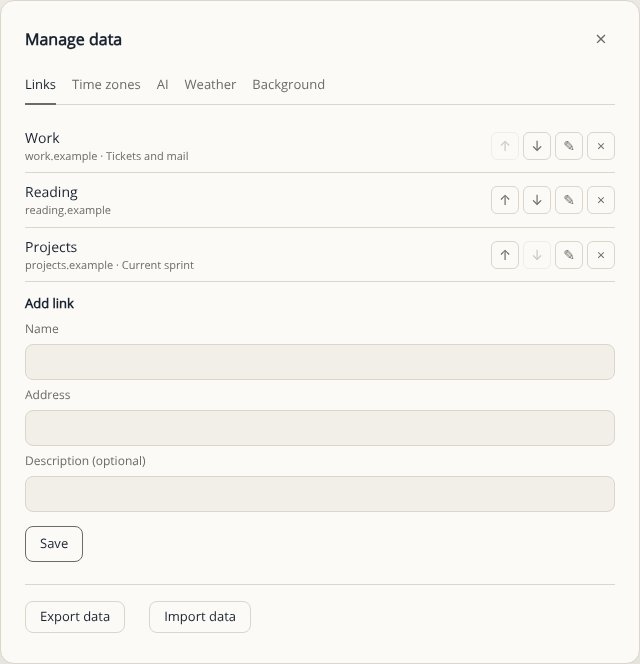
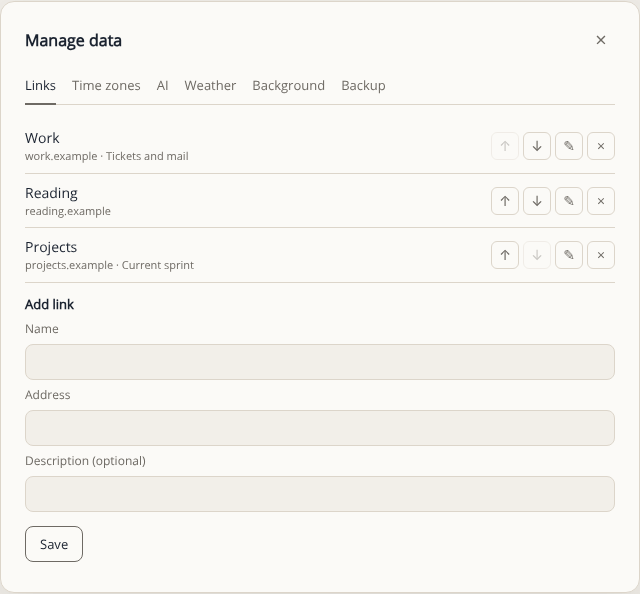
Backup tab in Manage data, and updated screenshots (1.3.13)
Backup tab in Manage data, and updated screenshots (1.3.13)

diff --git a/script.js b/script.js
@@ -1,6 +1,6 @@
 const root = document.documentElement
 // The last number goes up with every change; a release gets the next version number, such as 1.4. The date is DD-MM-YYYY.
-const APP_VERSION = '1.3.12'
+const APP_VERSION = '1.3.13'
 const APP_UPDATED = '12-10-2026'
 const searchForm = document.getElementById('searchform')
 const searchBox = document.getElementById('search')
@@ -328,20 +328,20 @@ const sectionText = {
   zh: { secWeather: '天气', secLook: '显示', secPrivacy: '隐私', placeTime: '当地时间' }
 }
 const aiText = {
-  en: { limitFull: '{n} of {n} · full', aiSec: 'AI shortcuts', aiOn: 'On', aiName: 'Name', aiUrl: 'Address', aiEdit: 'Edit', aiAddTitle: 'Add shortcut', aiEditTitle: 'Edit shortcut', aiSave: 'Save', aiCancel: 'Cancel', aiUp: 'Move up', aiDown: 'Move down', aiRemove: 'Remove', versionText: 'Version {v}, updated {d}', secBackground: 'Background', resetIntro: 'Reset settings only sets your settings back to the defaults; your data stays. Delete my data removes your own links, AI shortcuts, time zones, city and extra places. This cannot be undone, so make a backup first in Manage data.', resetSec: 'Reset', dateOnLbl: 'Show the date', dateSec: 'Date', dateShow: 'Show', dateLong: 'Long', dateShort: 'Short', dateOrderLbl: 'Order', dateAuto: 'Automatic', dateDmy: 'Day-month-year', dateMdy: 'Month-day-year', dateYmd: 'Year-month-day', timeSec: 'Time format', time24: '24 hours', time12: '12 hours (AM/PM)', timeFull: 'Full, with seconds', searchSec: 'Search', searchNewTab: 'Open search in a new tab', aiNewTab: 'Open AI links in a new tab', aiDuplicate: 'Already in the list.', aiPick: 'Pick services', aiInvalid: 'Enter a valid https address' },
-  nl: { limitFull: '{n} van {n} · vol', aiSec: 'AI-snelkoppelingen', aiOn: 'Aan', aiName: 'Naam', aiUrl: 'Adres', aiEdit: 'Bewerken', aiAddTitle: 'Snelkoppeling toevoegen', aiEditTitle: 'Snelkoppeling bewerken', aiSave: 'Opslaan', aiCancel: 'Annuleren', aiUp: 'Omhoog', aiDown: 'Omlaag', aiRemove: 'Verwijderen', versionText: 'Versie {v}, bijgewerkt {d}', secBackground: 'Achtergrond', resetIntro: 'Instellingen resetten zet alleen je instellingen terug naar de standaard; je gegevens blijven staan. Mijn gegevens wissen verwijdert je eigen links, AI-snelkoppelingen, tijdzones, stad en extra plaatsen. Dat kan niet ongedaan worden, dus maak eerst een backup in Data beheren.', resetSec: 'Resetten', dateOnLbl: 'Datum tonen', dateSec: 'Datum', dateShow: 'Weergave', dateLong: 'Lang', dateShort: 'Kort', dateOrderLbl: 'Volgorde', dateAuto: 'Automatisch', dateDmy: 'Dag-maand-jaar', dateMdy: 'Maand-dag-jaar', dateYmd: 'Jaar-maand-dag', timeSec: 'Tijdnotatie', time24: '24 uur', time12: '12 uur (AM/PM)', timeFull: 'Volledig, met seconden', searchSec: 'Zoeken', searchNewTab: 'Zoeken openen in een nieuw tabblad', aiNewTab: 'AI-links openen in een nieuw tabblad', aiDuplicate: 'Staat al in de lijst.', aiPick: 'Kies diensten', aiInvalid: 'Vul een geldig https-adres in' },
-  de: { limitFull: '{n} von {n} · voll', aiSec: 'KI-Verknüpfungen', aiOn: 'An', aiName: 'Name', aiUrl: 'Adresse', aiEdit: 'Bearbeiten', aiAddTitle: 'Verknüpfung hinzufügen', aiEditTitle: 'Verknüpfung bearbeiten', aiSave: 'Speichern', aiCancel: 'Abbrechen', aiUp: 'Nach oben', aiDown: 'Nach unten', aiRemove: 'Entfernen', versionText: 'Version {v}, aktualisiert {d}', secBackground: 'Hintergrund', resetIntro: 'Einstellungen zurücksetzen stellt nur die Standardwerte wieder her; deine Daten bleiben. Meine Daten löschen entfernt deine eigenen Links, KI-Verknüpfungen, Zeitzonen, Stadt und zusätzlichen Orte. Das lässt sich nicht rückgängig machen, also erstelle zuerst ein Backup in Daten verwalten.', resetSec: 'Zurücksetzen', dateOnLbl: 'Datum anzeigen', dateSec: 'Datum', dateShow: 'Anzeige', dateLong: 'Lang', dateShort: 'Kurz', dateOrderLbl: 'Reihenfolge', dateAuto: 'Automatisch', dateDmy: 'Tag-Monat-Jahr', dateMdy: 'Monat-Tag-Jahr', dateYmd: 'Jahr-Monat-Tag', timeSec: 'Zeitformat', time24: '24 Stunden', time12: '12 Stunden (AM/PM)', timeFull: 'Vollständig, mit Sekunden', searchSec: 'Suche', searchNewTab: 'Suche in einem neuen Tab öffnen', aiNewTab: 'KI-Links in einem neuen Tab öffnen', aiDuplicate: 'Ist schon in der Liste.', aiPick: 'Dienste wählen', aiInvalid: 'Gib eine gültige https-Adresse ein' },
-  fr: { limitFull: '{n} sur {n} · complet', aiSec: 'Raccourcis IA', aiOn: 'Activé', aiName: 'Nom', aiUrl: 'Adresse', aiEdit: 'Modifier', aiAddTitle: 'Ajouter un raccourci', aiEditTitle: 'Modifier le raccourci', aiSave: 'Enregistrer', aiCancel: 'Annuler', aiUp: 'Monter', aiDown: 'Descendre', aiRemove: 'Supprimer', versionText: 'Version {v}, mise à jour {d}', secBackground: 'Arrière-plan', resetIntro: 'Réinitialiser les réglages remet seulement les réglages par défaut ; vos données restent. Effacer mes données supprime vos liens, raccourcis IA, fuseaux, ville et lieux supplémentaires. Action irréversible : faites d’abord une sauvegarde dans Gérer les données.', resetSec: 'Réinitialiser', dateOnLbl: 'Afficher la date', dateSec: 'Date', dateShow: 'Affichage', dateLong: 'Long', dateShort: 'Court', dateOrderLbl: 'Ordre', dateAuto: 'Automatique', dateDmy: 'Jour-mois-année', dateMdy: 'Mois-jour-année', dateYmd: 'Année-mois-jour', timeSec: 'Format de l’heure', time24: '24 heures', time12: '12 heures (AM/PM)', timeFull: 'Complet, avec secondes', searchSec: 'Recherche', searchNewTab: 'Ouvrir la recherche dans un nouvel onglet', aiNewTab: 'Ouvrir les liens IA dans un nouvel onglet', aiDuplicate: 'Déjà dans la liste.', aiPick: 'Choisir les services', aiInvalid: 'Saisissez une adresse https valide' },
-  es: { limitFull: '{n} de {n} · completo', aiSec: 'Accesos de IA', aiOn: 'Activado', aiName: 'Nombre', aiUrl: 'Dirección', aiEdit: 'Editar', aiAddTitle: 'Añadir acceso', aiEditTitle: 'Editar acceso', aiSave: 'Guardar', aiCancel: 'Cancelar', aiUp: 'Subir', aiDown: 'Bajar', aiRemove: 'Quitar', versionText: 'Versión {v}, actualizada {d}', secBackground: 'Fondo', resetIntro: 'Restablecer ajustes solo devuelve los valores predeterminados; tus datos se mantienen. Borrar mis datos elimina tus enlaces propios, accesos de IA, zonas horarias, ciudad y lugares adicionales. No se puede deshacer, así que haz antes una copia en Gestionar datos.', resetSec: 'Restablecer', dateOnLbl: 'Mostrar la fecha', dateSec: 'Fecha', dateShow: 'Mostrar', dateLong: 'Larga', dateShort: 'Corta', dateOrderLbl: 'Orden', dateAuto: 'Automático', dateDmy: 'Día-mes-año', dateMdy: 'Mes-día-año', dateYmd: 'Año-mes-día', timeSec: 'Formato de hora', time24: '24 horas', time12: '12 horas (AM/PM)', timeFull: 'Completo, con segundos', searchSec: 'Búsqueda', searchNewTab: 'Abrir la búsqueda en una pestaña nueva', aiNewTab: 'Abrir los accesos de IA en una pestaña nueva', aiDuplicate: 'Ya está en la lista.', aiPick: 'Elige servicios', aiInvalid: 'Escribe una dirección https válida' },
-  zh: { limitFull: '{n}/{n} · 已满', aiSec: 'AI 快捷方式', aiOn: '开启', aiName: '名称', aiUrl: '地址', aiEdit: '编辑', aiAddTitle: '添加快捷方式', aiEditTitle: '编辑快捷方式', aiSave: '保存', aiCancel: '取消', aiUp: '上移', aiDown: '下移', aiRemove: '移除', versionText: '版本 {v}，更新于 {d}', secBackground: '背景', resetIntro: '重置设置只会恢复默认值，你的数据会保留。删除我的数据会移除你自己的链接、AI 快捷方式、时区、城市和额外地点。此操作无法撤销，请先在管理数据中备份。', resetSec: '重置', dateOnLbl: '显示日期', dateSec: '日期', dateShow: '显示', dateLong: '长格式', dateShort: '短格式', dateOrderLbl: '顺序', dateAuto: '自动', dateDmy: '日-月-年', dateMdy: '月-日-年', dateYmd: '年-月-日', timeSec: '时间格式', time24: '24 小时制', time12: '12 小时制 (AM/PM)', timeFull: '完整，含秒', searchSec: '搜索', searchNewTab: '在新标签页中打开搜索', aiNewTab: '在新标签页中打开 AI 快捷方式', aiDuplicate: '已在列表中。', aiPick: '选择服务', aiInvalid: '请输入有效的 https 地址' }
+  en: { limitFull: '{n} of {n} · full', aiSec: 'AI shortcuts', aiOn: 'On', aiName: 'Name', aiUrl: 'Address', aiEdit: 'Edit', aiAddTitle: 'Add shortcut', aiEditTitle: 'Edit shortcut', aiSave: 'Save', aiCancel: 'Cancel', aiUp: 'Move up', aiDown: 'Move down', aiRemove: 'Remove', versionText: 'Version {v}, updated {d}', secBackground: 'Background', resetIntro: 'Reset settings only sets your settings back to the defaults; your data stays. Delete my data removes your own links, AI shortcuts, time zones, city and extra places. This cannot be undone, so make a backup first on the Backup tab in Manage data.', resetSec: 'Reset', dateOnLbl: 'Show the date', dateSec: 'Date', dateShow: 'Show', dateLong: 'Long', dateShort: 'Short', dateOrderLbl: 'Order', dateAuto: 'Automatic', dateDmy: 'Day-month-year', dateMdy: 'Month-day-year', dateYmd: 'Year-month-day', timeSec: 'Time format', time24: '24 hours', time12: '12 hours (AM/PM)', timeFull: 'Full, with seconds', searchSec: 'Search', searchNewTab: 'Open search in a new tab', aiNewTab: 'Open AI links in a new tab', aiDuplicate: 'Already in the list.', aiPick: 'Pick services', aiInvalid: 'Enter a valid https address' },
+  nl: { limitFull: '{n} van {n} · vol', aiSec: 'AI-snelkoppelingen', aiOn: 'Aan', aiName: 'Naam', aiUrl: 'Adres', aiEdit: 'Bewerken', aiAddTitle: 'Snelkoppeling toevoegen', aiEditTitle: 'Snelkoppeling bewerken', aiSave: 'Opslaan', aiCancel: 'Annuleren', aiUp: 'Omhoog', aiDown: 'Omlaag', aiRemove: 'Verwijderen', versionText: 'Versie {v}, bijgewerkt {d}', secBackground: 'Achtergrond', resetIntro: 'Instellingen resetten zet alleen je instellingen terug naar de standaard; je gegevens blijven staan. Mijn gegevens wissen verwijdert je eigen links, AI-snelkoppelingen, tijdzones, stad en extra plaatsen. Dat kan niet ongedaan worden, dus maak eerst een backup op het tabblad Backup onder Data beheren.', resetSec: 'Resetten', dateOnLbl: 'Datum tonen', dateSec: 'Datum', dateShow: 'Weergave', dateLong: 'Lang', dateShort: 'Kort', dateOrderLbl: 'Volgorde', dateAuto: 'Automatisch', dateDmy: 'Dag-maand-jaar', dateMdy: 'Maand-dag-jaar', dateYmd: 'Jaar-maand-dag', timeSec: 'Tijdnotatie', time24: '24 uur', time12: '12 uur (AM/PM)', timeFull: 'Volledig, met seconden', searchSec: 'Zoeken', searchNewTab: 'Zoeken openen in een nieuw tabblad', aiNewTab: 'AI-links openen in een nieuw tabblad', aiDuplicate: 'Staat al in de lijst.', aiPick: 'Kies diensten', aiInvalid: 'Vul een geldig https-adres in' },
+  de: { limitFull: '{n} von {n} · voll', aiSec: 'KI-Verknüpfungen', aiOn: 'An', aiName: 'Name', aiUrl: 'Adresse', aiEdit: 'Bearbeiten', aiAddTitle: 'Verknüpfung hinzufügen', aiEditTitle: 'Verknüpfung bearbeiten', aiSave: 'Speichern', aiCancel: 'Abbrechen', aiUp: 'Nach oben', aiDown: 'Nach unten', aiRemove: 'Entfernen', versionText: 'Version {v}, aktualisiert {d}', secBackground: 'Hintergrund', resetIntro: 'Einstellungen zurücksetzen stellt nur die Standardwerte wieder her; deine Daten bleiben. Meine Daten löschen entfernt deine eigenen Links, KI-Verknüpfungen, Zeitzonen, Stadt und zusätzlichen Orte. Das lässt sich nicht rückgängig machen, also erstelle zuerst ein Backup im Reiter Backup unter Daten verwalten.', resetSec: 'Zurücksetzen', dateOnLbl: 'Datum anzeigen', dateSec: 'Datum', dateShow: 'Anzeige', dateLong: 'Lang', dateShort: 'Kurz', dateOrderLbl: 'Reihenfolge', dateAuto: 'Automatisch', dateDmy: 'Tag-Monat-Jahr', dateMdy: 'Monat-Tag-Jahr', dateYmd: 'Jahr-Monat-Tag', timeSec: 'Zeitformat', time24: '24 Stunden', time12: '12 Stunden (AM/PM)', timeFull: 'Vollständig, mit Sekunden', searchSec: 'Suche', searchNewTab: 'Suche in einem neuen Tab öffnen', aiNewTab: 'KI-Links in einem neuen Tab öffnen', aiDuplicate: 'Ist schon in der Liste.', aiPick: 'Dienste wählen', aiInvalid: 'Gib eine gültige https-Adresse ein' },
+  fr: { limitFull: '{n} sur {n} · complet', aiSec: 'Raccourcis IA', aiOn: 'Activé', aiName: 'Nom', aiUrl: 'Adresse', aiEdit: 'Modifier', aiAddTitle: 'Ajouter un raccourci', aiEditTitle: 'Modifier le raccourci', aiSave: 'Enregistrer', aiCancel: 'Annuler', aiUp: 'Monter', aiDown: 'Descendre', aiRemove: 'Supprimer', versionText: 'Version {v}, mise à jour {d}', secBackground: 'Arrière-plan', resetIntro: 'Réinitialiser les réglages remet seulement les réglages par défaut ; vos données restent. Effacer mes données supprime vos liens, raccourcis IA, fuseaux, ville et lieux supplémentaires. Action irréversible : faites d’abord une sauvegarde dans l’onglet Sauvegarde de Gérer les données.', resetSec: 'Réinitialiser', dateOnLbl: 'Afficher la date', dateSec: 'Date', dateShow: 'Affichage', dateLong: 'Long', dateShort: 'Court', dateOrderLbl: 'Ordre', dateAuto: 'Automatique', dateDmy: 'Jour-mois-année', dateMdy: 'Mois-jour-année', dateYmd: 'Année-mois-jour', timeSec: 'Format de l’heure', time24: '24 heures', time12: '12 heures (AM/PM)', timeFull: 'Complet, avec secondes', searchSec: 'Recherche', searchNewTab: 'Ouvrir la recherche dans un nouvel onglet', aiNewTab: 'Ouvrir les liens IA dans un nouvel onglet', aiDuplicate: 'Déjà dans la liste.', aiPick: 'Choisir les services', aiInvalid: 'Saisissez une adresse https valide' },
+  es: { limitFull: '{n} de {n} · completo', aiSec: 'Accesos de IA', aiOn: 'Activado', aiName: 'Nombre', aiUrl: 'Dirección', aiEdit: 'Editar', aiAddTitle: 'Añadir acceso', aiEditTitle: 'Editar acceso', aiSave: 'Guardar', aiCancel: 'Cancelar', aiUp: 'Subir', aiDown: 'Bajar', aiRemove: 'Quitar', versionText: 'Versión {v}, actualizada {d}', secBackground: 'Fondo', resetIntro: 'Restablecer ajustes solo devuelve los valores predeterminados; tus datos se mantienen. Borrar mis datos elimina tus enlaces propios, accesos de IA, zonas horarias, ciudad y lugares adicionales. No se puede deshacer, así que haz antes una copia en la pestaña Copia de Gestionar datos.', resetSec: 'Restablecer', dateOnLbl: 'Mostrar la fecha', dateSec: 'Fecha', dateShow: 'Mostrar', dateLong: 'Larga', dateShort: 'Corta', dateOrderLbl: 'Orden', dateAuto: 'Automático', dateDmy: 'Día-mes-año', dateMdy: 'Mes-día-año', dateYmd: 'Año-mes-día', timeSec: 'Formato de hora', time24: '24 horas', time12: '12 horas (AM/PM)', timeFull: 'Completo, con segundos', searchSec: 'Búsqueda', searchNewTab: 'Abrir la búsqueda en una pestaña nueva', aiNewTab: 'Abrir los accesos de IA en una pestaña nueva', aiDuplicate: 'Ya está en la lista.', aiPick: 'Elige servicios', aiInvalid: 'Escribe una dirección https válida' },
+  zh: { limitFull: '{n}/{n} · 已满', aiSec: 'AI 快捷方式', aiOn: '开启', aiName: '名称', aiUrl: '地址', aiEdit: '编辑', aiAddTitle: '添加快捷方式', aiEditTitle: '编辑快捷方式', aiSave: '保存', aiCancel: '取消', aiUp: '上移', aiDown: '下移', aiRemove: '移除', versionText: '版本 {v}，更新于 {d}', secBackground: '背景', resetIntro: '重置设置只会恢复默认值，你的数据会保留。删除我的数据会移除你自己的链接、AI 快捷方式、时区、城市和额外地点。此操作无法撤销，请先在管理数据的备份标签中备份。', resetSec: '重置', dateOnLbl: '显示日期', dateSec: '日期', dateShow: '显示', dateLong: '长格式', dateShort: '短格式', dateOrderLbl: '顺序', dateAuto: '自动', dateDmy: '日-月-年', dateMdy: '月-日-年', dateYmd: '年-月-日', timeSec: '时间格式', time24: '24 小时制', time12: '12 小时制 (AM/PM)', timeFull: '完整，含秒', searchSec: '搜索', searchNewTab: '在新标签页中打开搜索', aiNewTab: '在新标签页中打开 AI 快捷方式', aiDuplicate: '已在列表中。', aiPick: '选择服务', aiInvalid: '请输入有效的 https 地址' }
 }
 const manageText = {
-  en: { linkUp: 'Move up', linkDown: 'Move down', manageOpen: 'Manage data', tabLinks: 'Links', tabZones: 'Time zones', tabAi: 'AI', tabWeather: 'Weather', placeLabel: 'Add a city', placeAdd: 'Add', placeOwn: 'Your place', placeNone: 'No place yet', placeDuplicate: 'Already in the list', placeRemove: 'Remove' },
-  nl: { linkUp: 'Omhoog', linkDown: 'Omlaag', manageOpen: 'Data beheren', tabLinks: 'Links', tabZones: 'Tijdzones', tabAi: 'AI', tabWeather: 'Weer', placeLabel: 'Een stad toevoegen', placeAdd: 'Toevoegen', placeOwn: 'Je eigen plaats', placeNone: 'Nog geen plaats', placeDuplicate: 'Staat al in de lijst', placeRemove: 'Verwijderen' },
-  de: { linkUp: 'Nach oben', linkDown: 'Nach unten', manageOpen: 'Daten verwalten', tabLinks: 'Links', tabZones: 'Zeitzonen', tabAi: 'KI', tabWeather: 'Wetter', placeLabel: 'Eine Stadt hinzufügen', placeAdd: 'Hinzufügen', placeOwn: 'Dein Ort', placeNone: 'Noch kein Ort', placeDuplicate: 'Ist schon in der Liste', placeRemove: 'Entfernen' },
-  fr: { linkUp: 'Monter', linkDown: 'Descendre', manageOpen: 'Gérer les données', tabLinks: 'Liens', tabZones: 'Fuseaux', tabAi: 'IA', tabWeather: 'Météo', placeLabel: 'Ajouter une ville', placeAdd: 'Ajouter', placeOwn: 'Votre lieu', placeNone: 'Aucun lieu pour l’instant', placeDuplicate: 'Déjà dans la liste', placeRemove: 'Supprimer' },
-  es: { linkUp: 'Subir', linkDown: 'Bajar', manageOpen: 'Gestionar datos', tabLinks: 'Enlaces', tabZones: 'Zonas horarias', tabAi: 'IA', tabWeather: 'Tiempo', placeLabel: 'Añadir una ciudad', placeAdd: 'Añadir', placeOwn: 'Tu lugar', placeNone: 'Aún no hay lugar', placeDuplicate: 'Ya está en la lista', placeRemove: 'Quitar' },
-  zh: { linkUp: '上移', linkDown: '下移', manageOpen: '管理数据', tabLinks: '链接', tabZones: '时区', tabAi: 'AI', tabWeather: '天气', placeLabel: '添加城市', placeAdd: '添加', placeOwn: '你的地点', placeNone: '还没有地点', placeDuplicate: '已在列表中', placeRemove: '移除' }
+  en: { linkUp: 'Move up', linkDown: 'Move down', manageOpen: 'Manage data', tabBackup: 'Backup', backupNote: 'Export saves your settings, links, AI shortcuts, time zones and weather places to a file on your computer. Import loads such a file: Merge adds what is new and keeps what you have, Replace overwrites everything. Make a backup before you reset or delete your data.', tabLinks: 'Links', tabZones: 'Time zones', tabAi: 'AI', tabWeather: 'Weather', placeLabel: 'Add a city', placeAdd: 'Add', placeOwn: 'Your place', placeNone: 'No place yet', placeDuplicate: 'Already in the list', placeRemove: 'Remove' },
+  nl: { linkUp: 'Omhoog', linkDown: 'Omlaag', manageOpen: 'Data beheren', tabBackup: 'Backup', backupNote: 'Exporteren slaat je instellingen, links, AI-snelkoppelingen, tijdzones en weerplaatsen op in een bestand op je computer. Importeren laadt zo’n bestand: Samenvoegen voegt toe wat nieuw is en laat staan wat je hebt, Vervangen overschrijft alles. Maak een backup voordat je gegevens reset of wist.', tabLinks: 'Links', tabZones: 'Tijdzones', tabAi: 'AI', tabWeather: 'Weer', placeLabel: 'Een stad toevoegen', placeAdd: 'Toevoegen', placeOwn: 'Je eigen plaats', placeNone: 'Nog geen plaats', placeDuplicate: 'Staat al in de lijst', placeRemove: 'Verwijderen' },
+  de: { linkUp: 'Nach oben', linkDown: 'Nach unten', manageOpen: 'Daten verwalten', tabBackup: 'Backup', backupNote: 'Exportieren speichert deine Einstellungen, Links, KI-Verknüpfungen, Zeitzonen und Wetterorte in einer Datei auf deinem Computer. Importieren lädt so eine Datei: Zusammenführen ergänzt das Neue und behält, was du hast; Ersetzen überschreibt alles. Erstelle ein Backup, bevor du Daten zurücksetzt oder löschst.', tabLinks: 'Links', tabZones: 'Zeitzonen', tabAi: 'KI', tabWeather: 'Wetter', placeLabel: 'Eine Stadt hinzufügen', placeAdd: 'Hinzufügen', placeOwn: 'Dein Ort', placeNone: 'Noch kein Ort', placeDuplicate: 'Ist schon in der Liste', placeRemove: 'Entfernen' },
+  fr: { linkUp: 'Monter', linkDown: 'Descendre', manageOpen: 'Gérer les données', tabBackup: 'Sauvegarde', backupNote: 'Exporter enregistre vos réglages, liens, raccourcis IA, fuseaux et lieux météo dans un fichier sur votre ordinateur. Importer charge ce fichier : Fusionner ajoute le nouveau et garde le reste ; Remplacer écrase tout. Faites une sauvegarde avant de réinitialiser ou d’effacer vos données.', tabLinks: 'Liens', tabZones: 'Fuseaux', tabAi: 'IA', tabWeather: 'Météo', placeLabel: 'Ajouter une ville', placeAdd: 'Ajouter', placeOwn: 'Votre lieu', placeNone: 'Aucun lieu pour l’instant', placeDuplicate: 'Déjà dans la liste', placeRemove: 'Supprimer' },
+  es: { linkUp: 'Subir', linkDown: 'Bajar', manageOpen: 'Gestionar datos', tabBackup: 'Copia', backupNote: 'Exportar guarda tus ajustes, enlaces, accesos de IA, zonas horarias y lugares del tiempo en un archivo de tu equipo. Importar carga ese archivo: Combinar añade lo nuevo y conserva lo que tienes; Reemplazar sobrescribe todo. Haz una copia antes de restablecer o borrar tus datos.', tabLinks: 'Enlaces', tabZones: 'Zonas horarias', tabAi: 'IA', tabWeather: 'Tiempo', placeLabel: 'Añadir una ciudad', placeAdd: 'Añadir', placeOwn: 'Tu lugar', placeNone: 'Aún no hay lugar', placeDuplicate: 'Ya está en la lista', placeRemove: 'Quitar' },
+  zh: { linkUp: '上移', linkDown: '下移', manageOpen: '管理数据', tabBackup: '备份', backupNote: '导出会把你的设置、链接、AI 快捷方式、时区和天气地点保存到电脑上的一个文件。导入会加载该文件：合并会添加新内容并保留现有内容；替换会覆盖全部。重置或删除数据前，请先备份。', tabLinks: '链接', tabZones: '时区', tabAi: 'AI', tabWeather: '天气', placeLabel: '添加城市', placeAdd: '添加', placeOwn: '你的地点', placeNone: '还没有地点', placeDuplicate: '已在列表中', placeRemove: '移除' }
 }
 const footerText = {
   en: { pre: 'Vibe coded with', post: 'by Drallas', title: 'View the README on GitHub' },
@@ -1043,6 +1043,8 @@ const applySettingsText = () => {
   document.getElementById('tab-ai').textContent = t.tabAi
   document.getElementById('tab-weather').textContent = t.tabWeather
   document.getElementById('tab-wallpapers').textContent = t.tabWallpaper
+  document.getElementById('tab-backup').textContent = t.tabBackup
+  document.getElementById('backup-note').textContent = t.backupNote
   document.getElementById('wallpaper-note').textContent = t.wallNote
   document.getElementById('lbl-place').textContent = t.placeLabel
   document.getElementById('place-add').textContent = t.placeAdd

diff --git a/index.html b/index.html
@@ -191,6 +191,7 @@
         <button type="button" role="tab" class="manage-tab-button" data-tab="ai" id="tab-ai" aria-controls="section-ai">AI</button>
         <button type="button" role="tab" class="manage-tab-button" data-tab="weather" id="tab-weather" aria-controls="section-weather">Weather</button>
         <button type="button" role="tab" class="manage-tab-button" data-tab="wallpapers" id="tab-wallpapers" aria-controls="section-wallpapers">Background</button>
+        <button type="button" role="tab" class="manage-tab-button" data-tab="backup" id="tab-backup" aria-controls="section-backup">Backup</button>
       </div>
       <section class="manage-section" data-tab="links" id="section-links" role="tabpanel" aria-labelledby="tab-links" tabindex="0" hidden>
       <div class="links-list" id="links-list"></div>
@@ -256,11 +257,14 @@
         <p class="manage-note" id="wallpaper-note"></p>
         <div id="wallpaper-list"></div>
       </section>
-      <div class="manage-io">
+      <section class="manage-section" data-tab="backup" id="section-backup" role="tabpanel" aria-labelledby="tab-backup" tabindex="0" hidden>
+        <p class="manage-note" id="backup-note"></p>
+        <div class="manage-io">
           <button type="button" id="export-data" class="ghost-button">Export data</button>
           <button type="button" id="import-data" class="ghost-button">Import data</button>
           <input type="file" id="import-file" accept="application/json,.json" hidden>
-      </div>
+        </div>
+      </section>
     </div>
   </div>
       <div class="settings" id="import-window" hidden>

diff --git a/tests/smoke.js b/tests/smoke.js
@@ -77,6 +77,7 @@ const emptyForecast = {
   await page.reload();
   await openSettings();
   await page.click('#manage-open');
+  await page.click('#tab-backup');
   const [download] = await Promise.all([page.waitForEvent('download'), page.click('#export-data')]);
   const exportFile = path.join(TMP, 'export.json');
   await download.saveAs(exportFile);
@@ -89,6 +90,7 @@ const emptyForecast = {
   await page.reload();
   await openSettings();
   await page.click('#manage-open');
+  await page.click('#tab-backup');
   let [chooser] = await Promise.all([page.waitForEvent('filechooser'), page.click('#import-data')]);
   await chooser.setFiles(exportFile);
   await page.waitForSelector('#import-window:not([hidden])');
@@ -104,6 +106,7 @@ const emptyForecast = {
   await page.reload();
   await openSettings();
   await page.click('#manage-open');
+  await page.click('#tab-backup');
   chooser = (await Promise.all([page.waitForEvent('filechooser'), page.click('#import-data')]))[0];
   await chooser.setFiles(exportFile);
   await page.waitForSelector('#import-window:not([hidden])');
@@ -119,6 +122,7 @@ const emptyForecast = {
   await page.waitForTimeout(500);
   await openSettings();
   await page.click('#manage-open');
+  await page.click('#tab-backup');
   chooser = (await Promise.all([page.waitForEvent('filechooser'), page.click('#import-data')]))[0];
   await chooser.setFiles(bad);
   await page.waitForTimeout(400);

diff --git a/docs/Screenshots.md b/docs/Screenshots.md
@@ -47,6 +47,10 @@ Every option, in groups. Weather, Show, Time format, Date, Search, AI shortcuts,
 
 ## Manage data
 
-Your links, time zones, AI shortcuts and weather places. Each list shows its add form; at the limit that form says so, for example "5 of 5 · full", and the add button is greyed out.
+Your links, time zones, AI shortcuts, weather places and backgrounds, each on its own tab. Each list shows its add form; at the limit that form says so in the field, for example "5 of 5 · full", and the add button is greyed out.
 
 ![Manage data](images/manage-data.png)
+
+The last tab, Backup, holds export and import. Export saves your settings and data to a file on your computer; import loads such a file and either merges it with what you have or replaces everything.
+
+![Backup tab](images/manage-backup.png)
